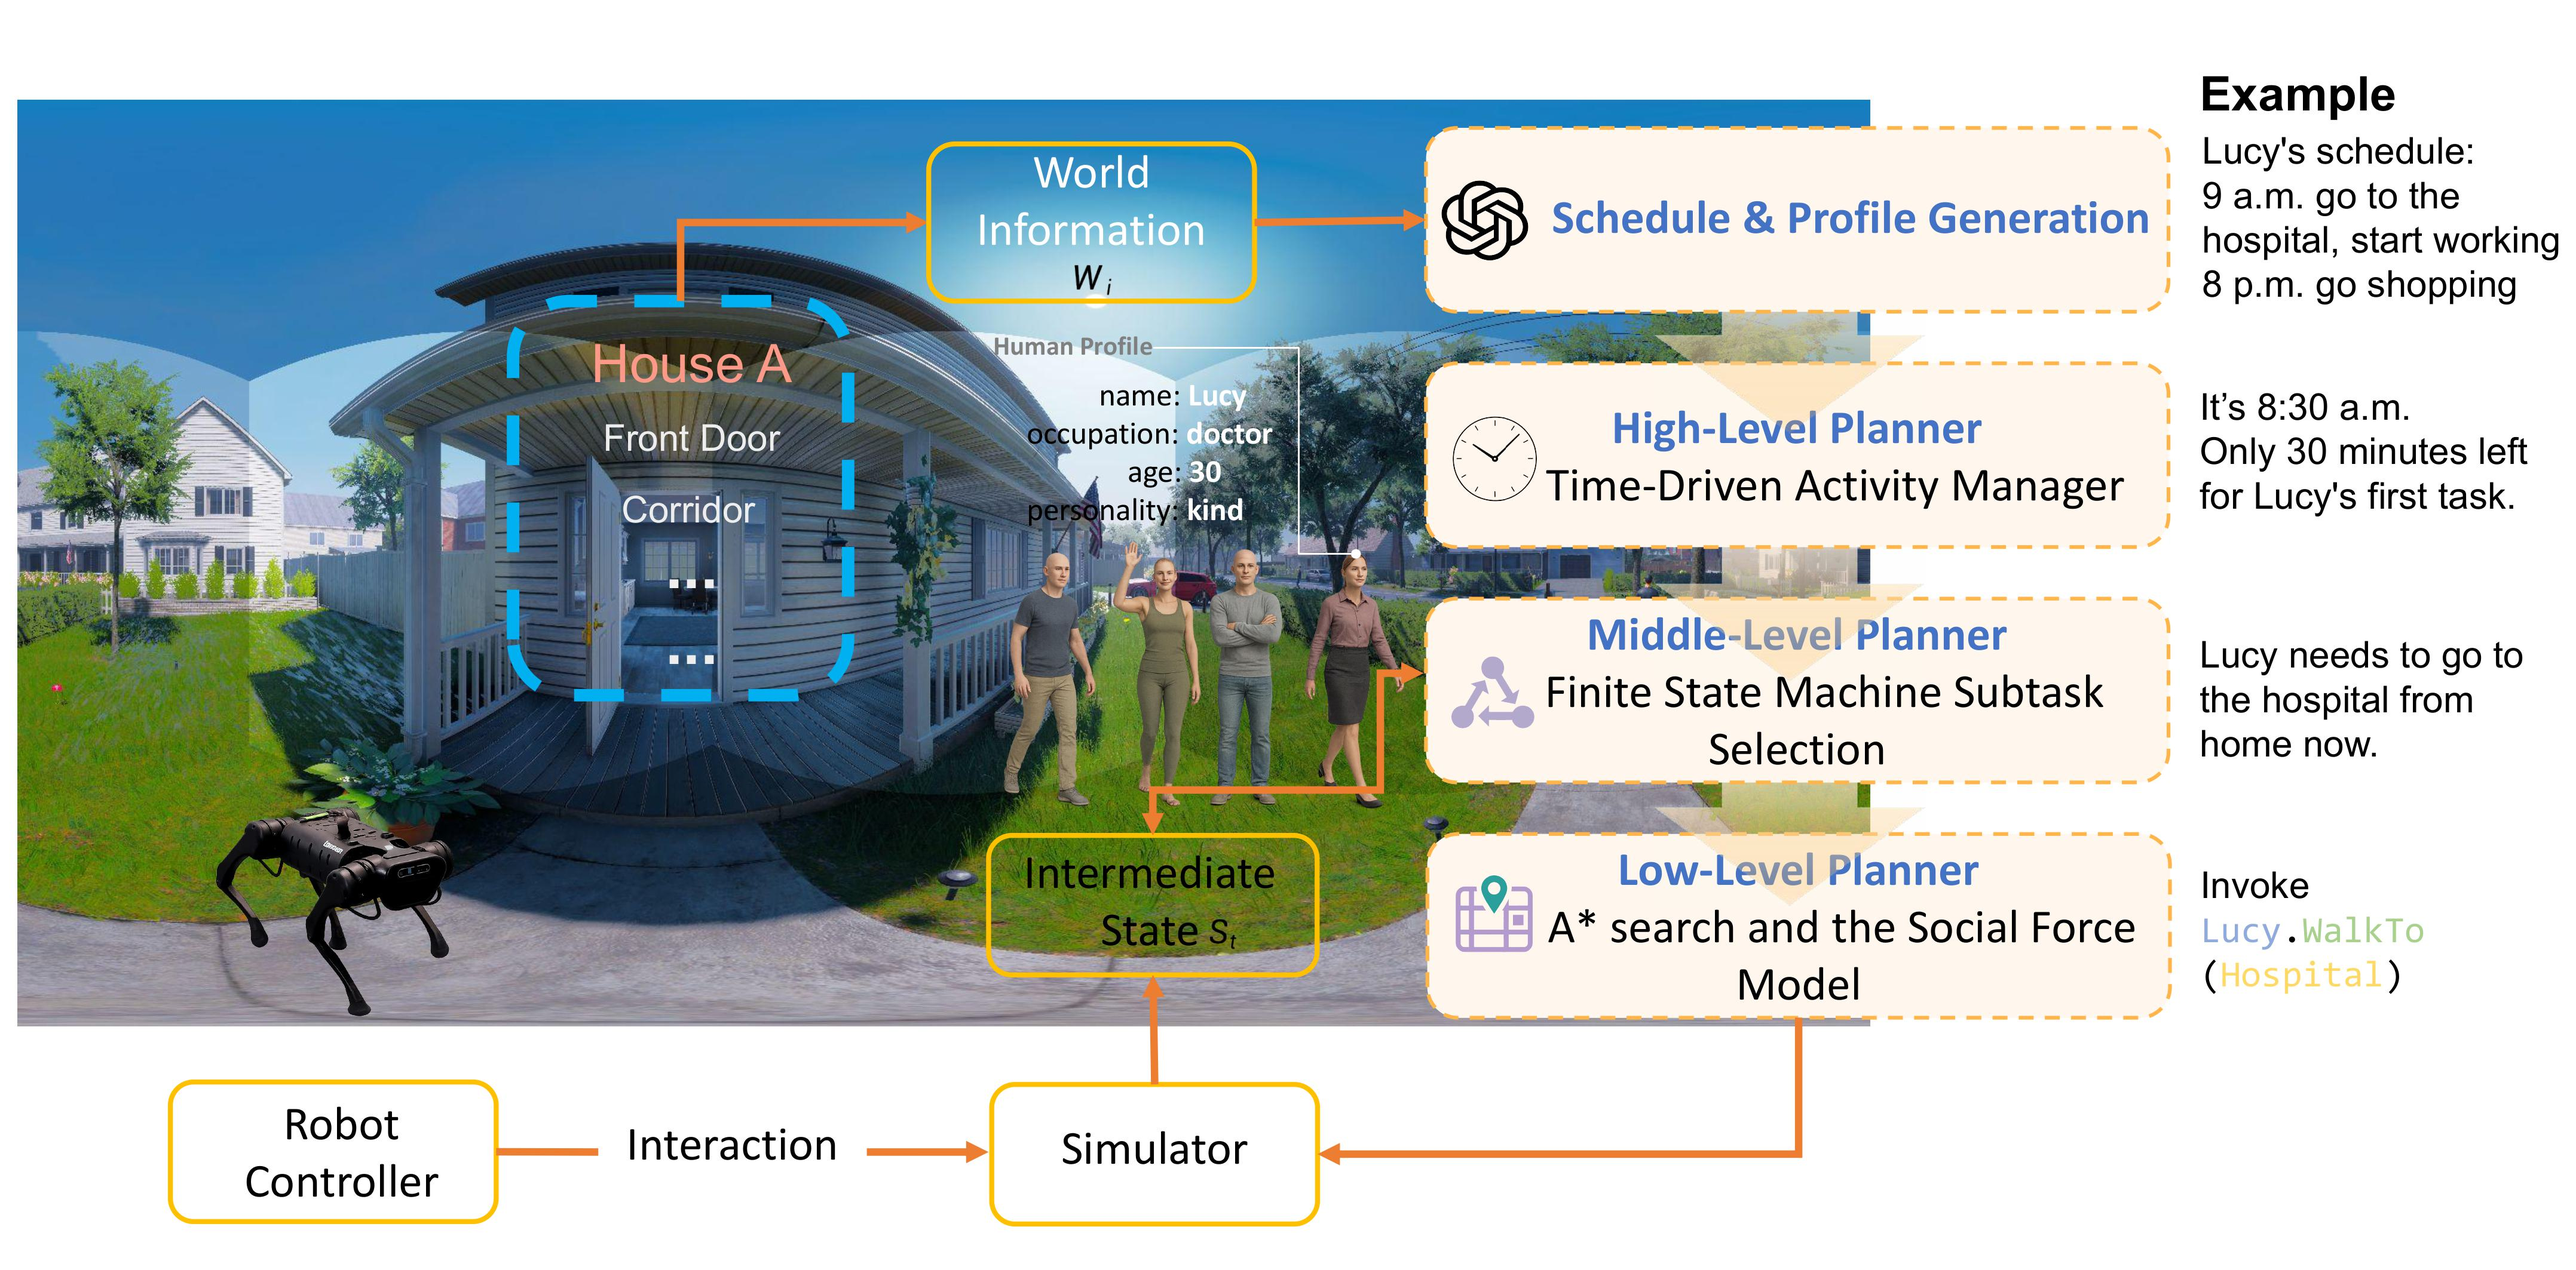
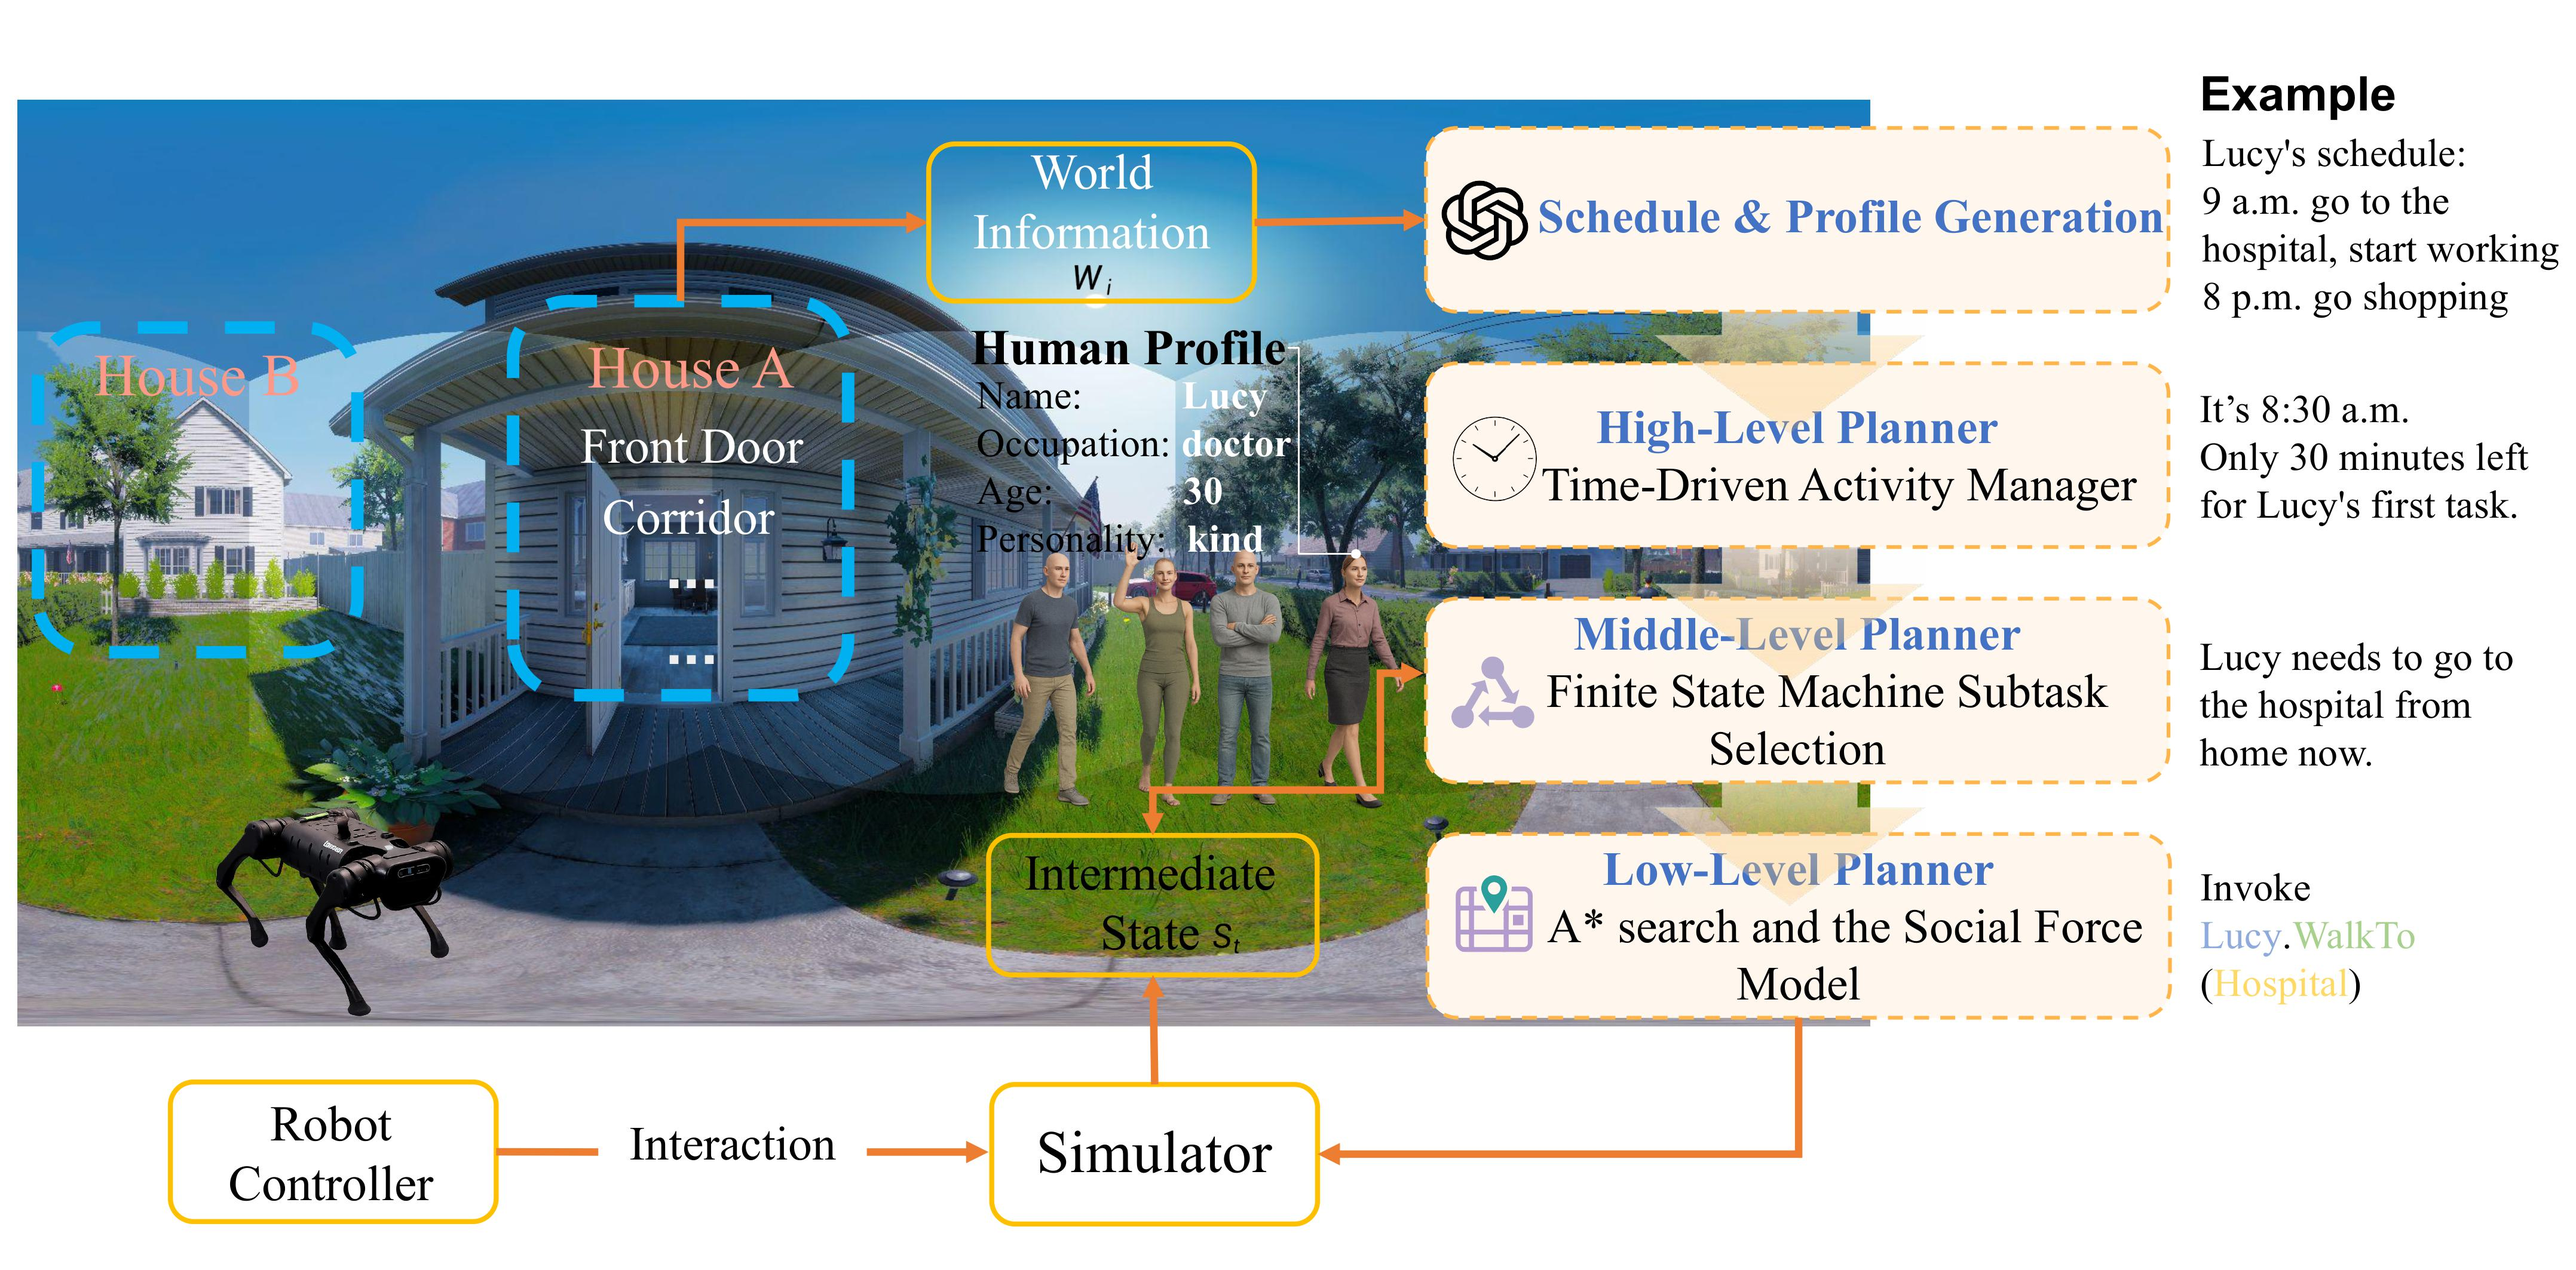
revise

diff --git a/README.md b/README.md
@@ -117,15 +117,12 @@ docs/SyhteticDataPic.jpg
 
 We used Unity Perception (Borkman et al. 2021) to build a rich and diverse synthetic dataset that includes multiple annotation types and data modalities. The dataset is designed to support a wide range of vision, navigation, and human–computer interaction tasks, and contains both dense per-frame annotations and global scene-level metadata. The main components are:
 
-- **2D and 3D bounding boxes:** for object localization in image space and world coordinates.
-- **Instance segmentation masks:** pixel-level instance annotations for object-level understanding and tracking.
-- **Semantic segmentation maps:** category-level scene parsing for semantic understanding.
-- **Surface normal maps:** provide geometric orientation information useful for geometry reasoning and reconstruction.
-- **Depth maps:** capture scene geometry and spatial structure for 3D perception and distance estimation.
-- **Panoramic RGB and six 90° perspective images:** provide full-environment perception as well as multiple perspective views for different modeling needs.
-- **Human–computer interaction (HCI) data:** includes natural language instructions, dialog histories, and agent trajectories to support interactive tasks and language-guided navigation.
-- **2D occupancy heatmaps:** represent spatial accessibility and the distribution of static objects, facilitating mapping and localization tasks.
-- **Environment metadata:** contains map-level specifications such as spatial boundaries, semantic region definitions, and other contextual information for the virtual environment.
+- **Visual annotations:** 2D/3D bounding boxes, instance segmentation, and semantic segmentation.  
+- **Geometric annotations:** depth maps and surface normal maps for scene geometry.  
+- **Visual observations:** panoramic RGB images and six 90° perspective views.  
+- **Interaction data:** natural language instructions, dialog histories, and agent trajectories.  
+- **Spatial representations:** 2D occupancy heatmaps for mapping and localization.  
+- **Environment metadata:** map boundaries, semantic regions, and other contextual information.
 
 The dataset covers 16 common object categories (e.g., vehicles, pedestrians, street furniture). By combining 2D occupancy heatmaps (encoding static layout) with 3D bounding boxes (capturing dynamic entity positions) and the provided world coordinates, we can accurately reconstruct simulated scenes to create a comprehensive digital twin. This reconstructed environment supports open-loop evaluations similar to nuScenes (Caesar et al. 2020), and is particularly suited for unstructured environments as in FreeAD (Peng et al. 2025). The dataset enables a broad spectrum of downstream tasks including navigation planning, behavior prediction, and human–computer interaction studies.
 
@@ -138,7 +135,7 @@ The figures below illustrate occupancy map generation and sample synthetic data:
 
 ## 🚀 Getting Started
 
-### 1. Clone & Install
+<!-- ### 1. Clone & Install
 
 ```bash
 git clone https://github.com/AIR-DISCOVER/FreeAskWorld
@@ -173,12 +170,12 @@ For nuScenes-like API access and advanced data loading, clone the dataset API re
 ```bash
 git clone https://github.com/doraemonaaaa/FreeAskWorldDataset
 ```
-This provides Python APIs for efficient data access and manipulation.
+This provides Python APIs for efficient data access and manipulation. -->
 
 
 ## How to Run
 
-### Closed-Loop Simulation (Interactive)
+<!-- ### Closed-Loop Simulation (Interactive)
 
 This is the primary mode for interactive evaluation. It launches the simulator and connects an agent script to it in real-time.
 
@@ -222,9 +219,9 @@ python evaluate.py \
     --model_path ./checkpoints/bevbert-ft/best_model.pth \
     --data_dir ./data/FreeAskWorld \
     --split open_loop_test
-```
+``` -->
 
-## 📊 Key Results
+## 📊 Proactive VLN Results
 Models fine-tuned on FreeAskWorld demonstrate enhanced semantic understanding and interaction competency. However, a significant gap to human performance remains, especially in high-level reasoning and social navigation.
 
 Closed-Loop Navigation Performance (Table 4 from Paper)
